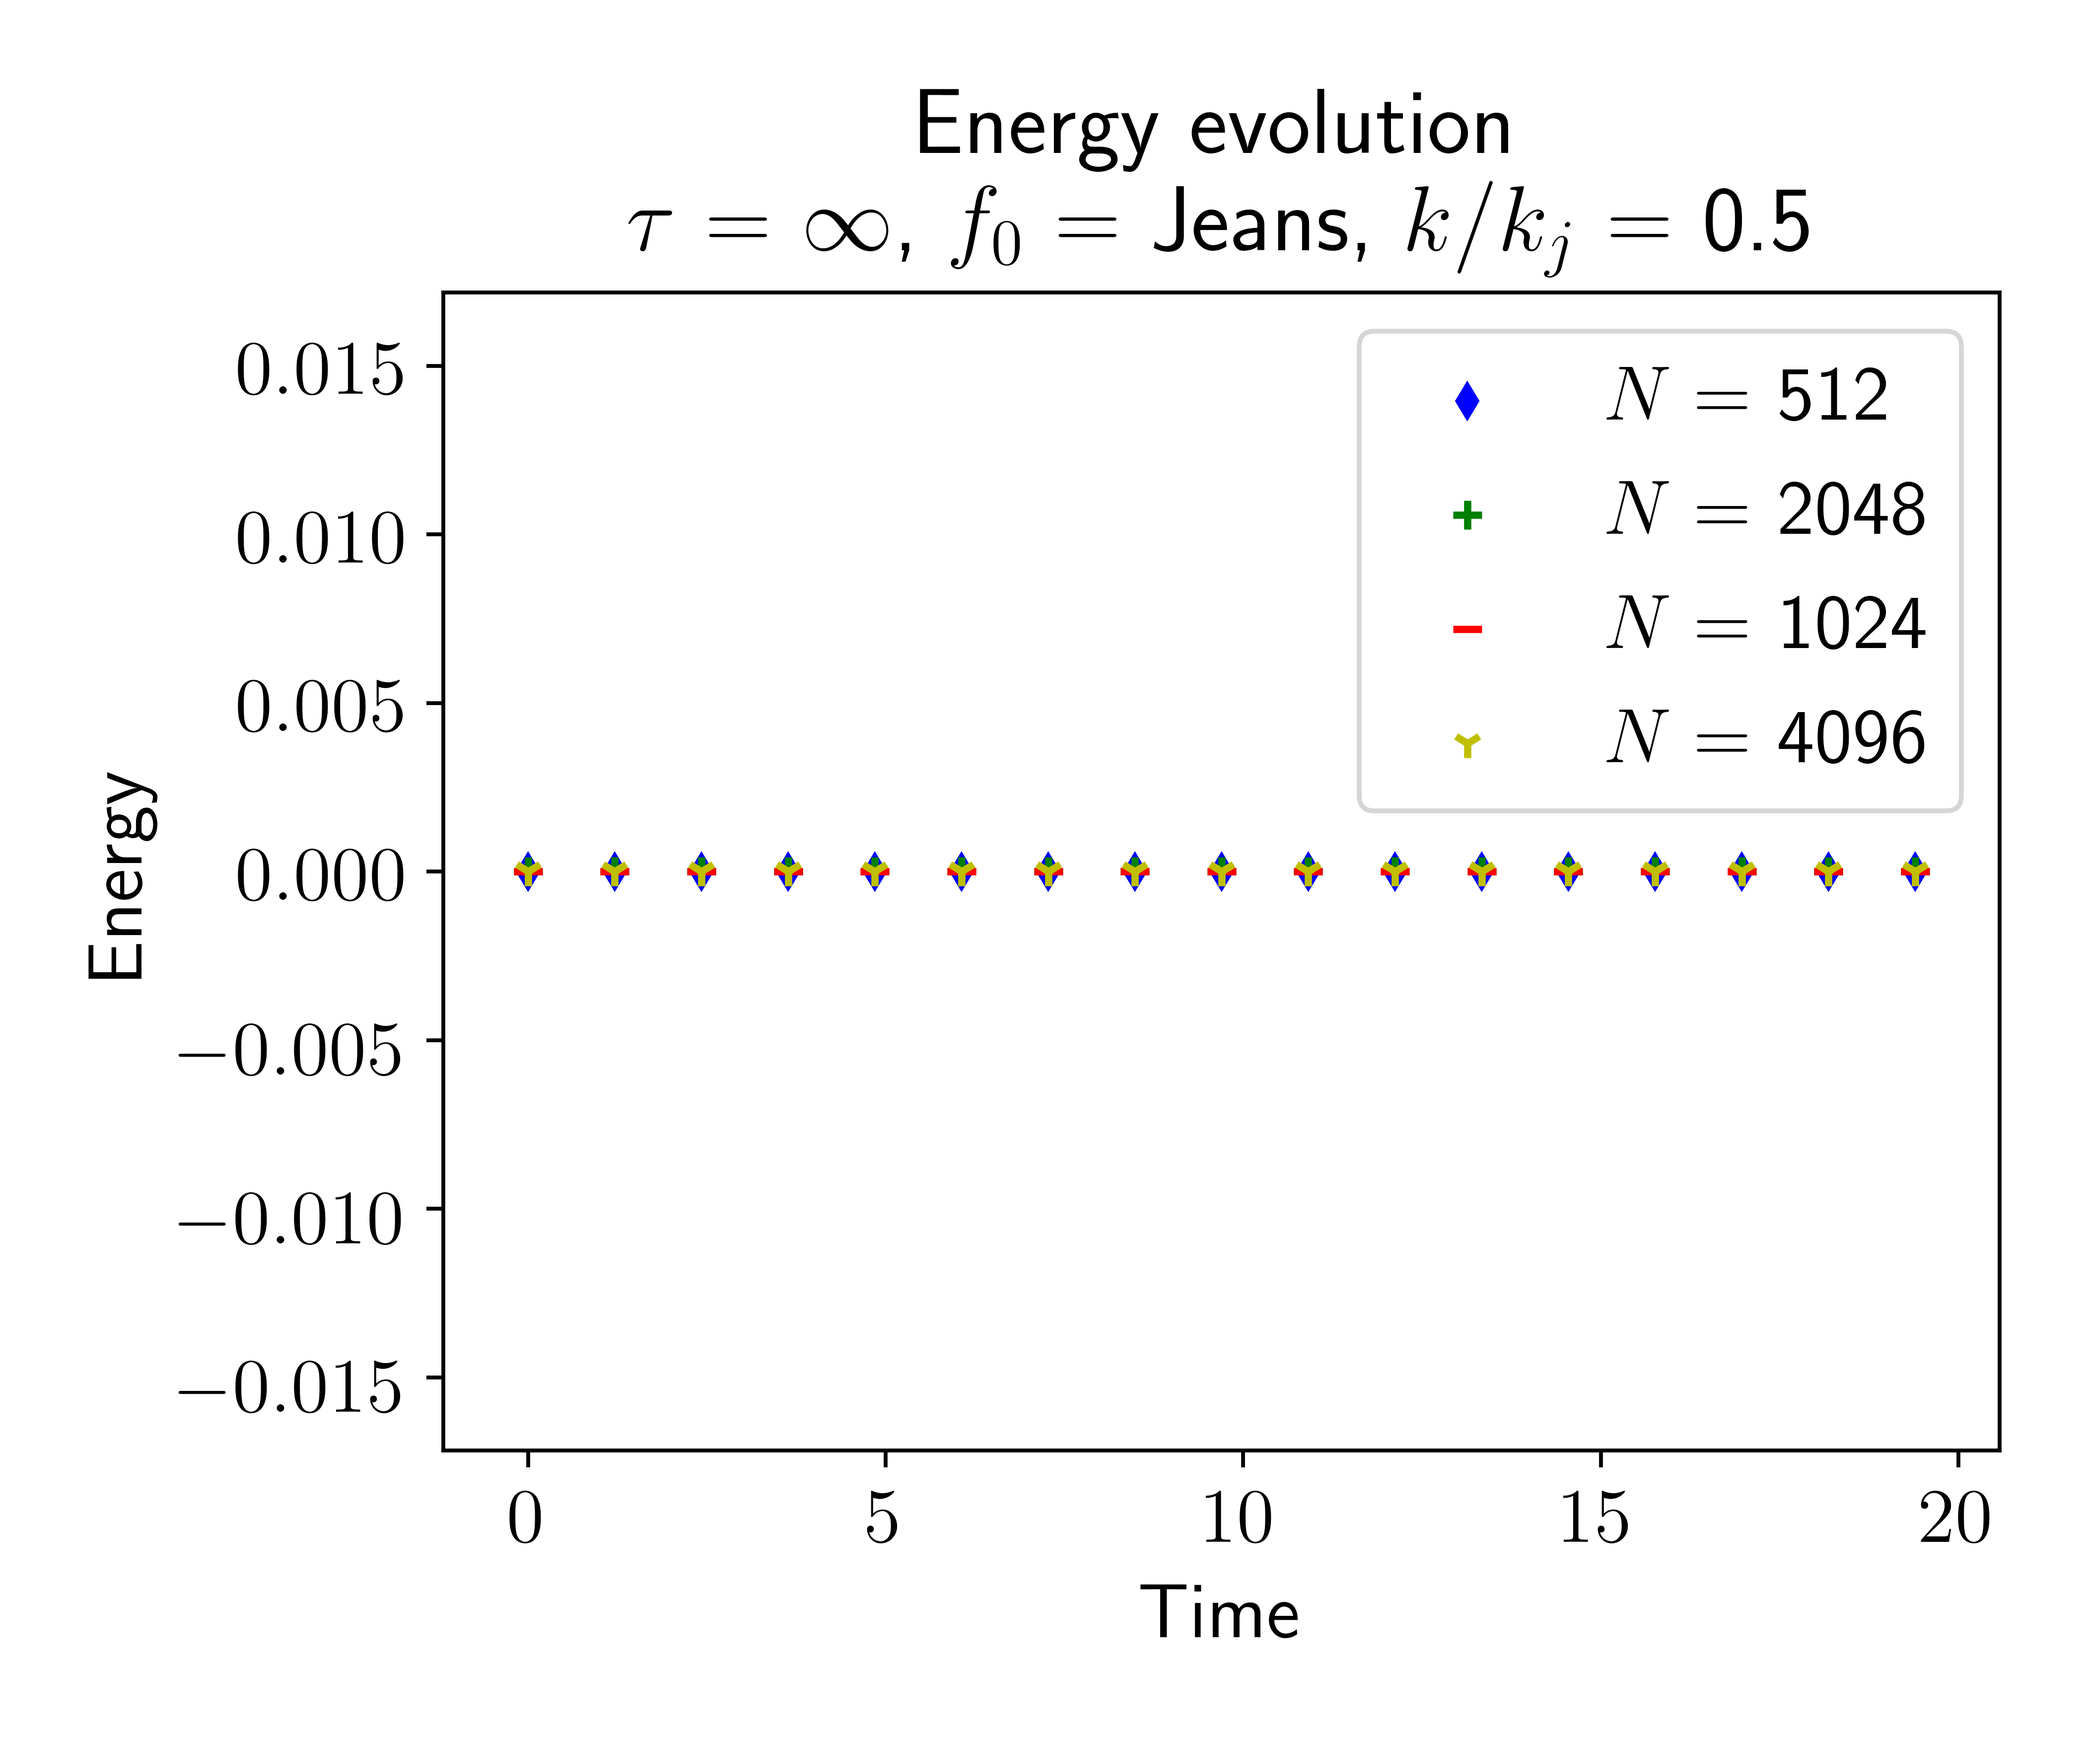
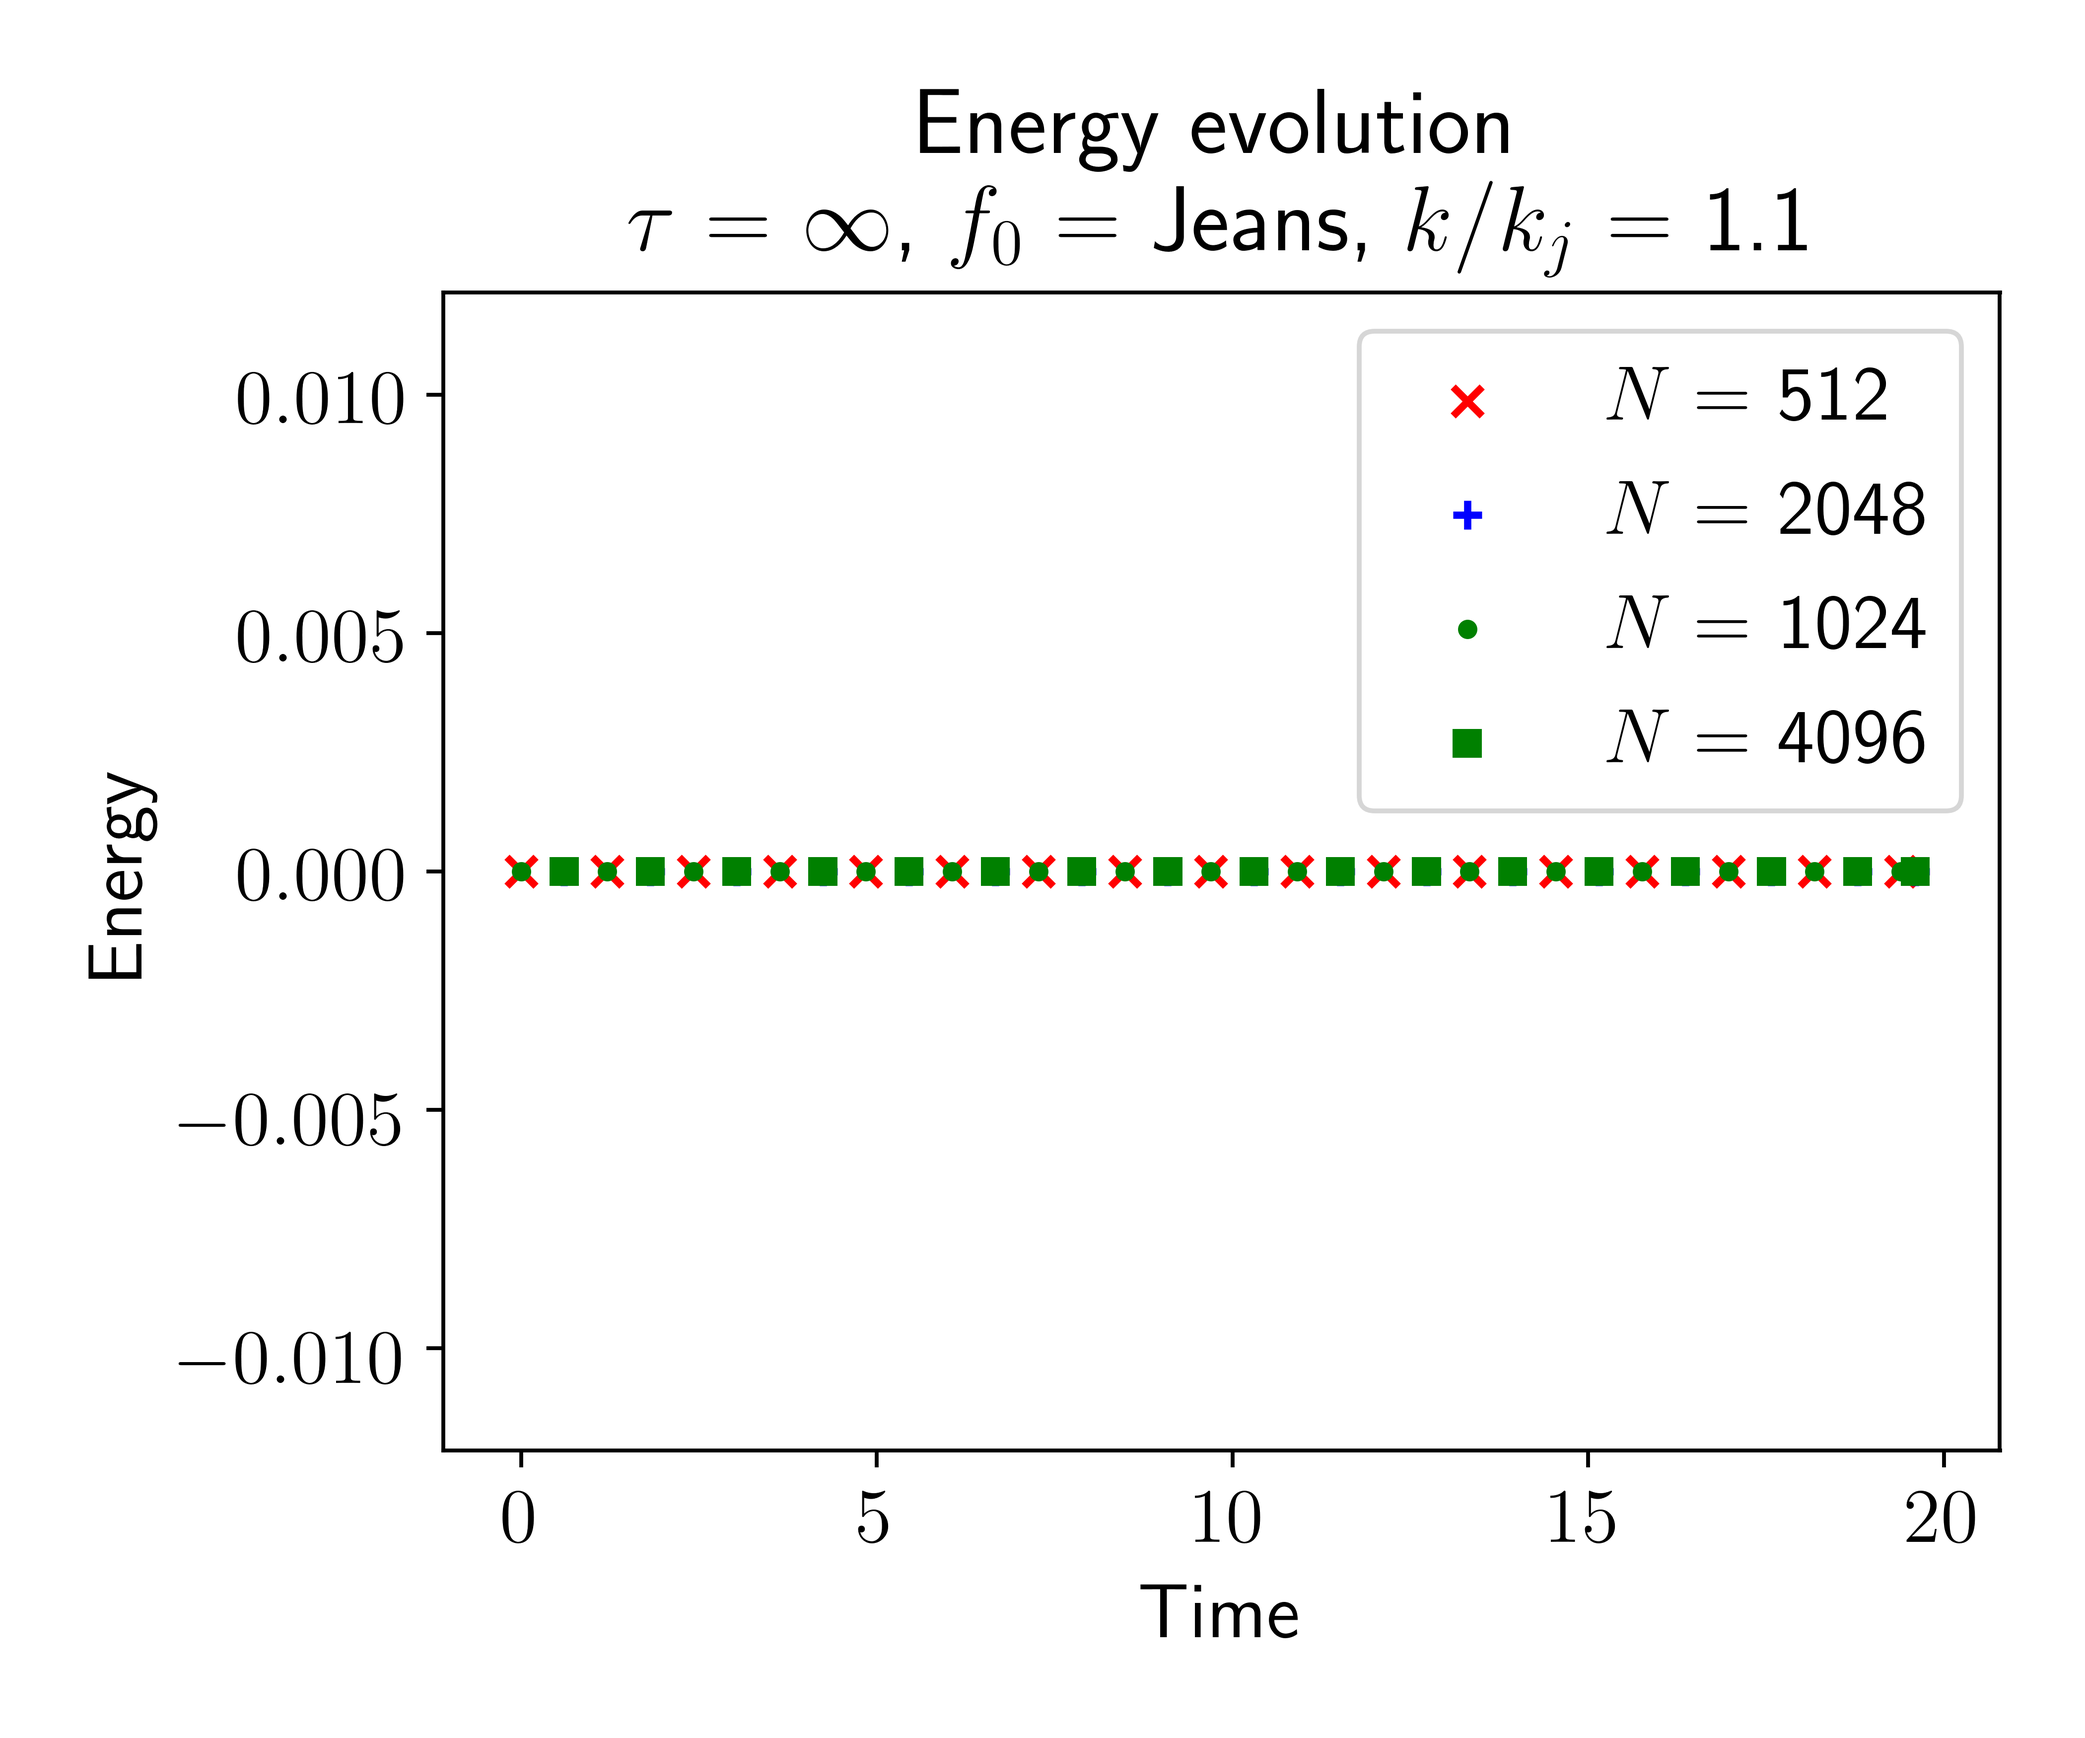
plots that work in greyscale

diff --git a/energyTests/energyPlots.py b/energyTests/energyPlots.py
@@ -174,16 +174,17 @@ for tau in ['0']:
 #        ax2 = f.add_subplot(111,sharex = ax1, frameon=False)
         #ax2.yaxis.tick_right()
         #ax2.yaxis.set_label_position("right")
-        for N1,N2,mark1,mark2 in zip(['512','1024'],['2048','4096'],['d','_'],[ '+','1']):
+        for N1,N2,mark1,mark2,color1,color2,sizes1 in zip(['512','1024'],['2048','4096'],['x','.'],[ '+','s'],['none','green'],['red','green'],[10,100]):
             condition1 = N1+sep+inicial+sep+tau0
             condition2 = N2+sep+inicial+sep+tau0
             print(condition1,condition2)
             energy1= np.loadtxt(condition1+'/energyEvolution.dat', delimiter=';')
             energy2= np.loadtxt(condition2+'/energyEvolution.dat', delimiter=';')
-            run_char = condition.split(sep='-')
-            if(tau == '0'): tau = r'$\infty$'
-            if(run_char[1][0] == 'J'):
-                run_char[1] = 'Jeans, $k/k_j$ = '+run_char[1][1]+'.'+run_char[1][2]
+            for condition in [condition1,condition2]:
+                run_char = condition.split(sep='-')
+                if(tau == '0'): tau = r'$\infty$'
+                if(run_char[1][0] == 'J'):
+                    run_char[1] = 'Jeans, $k/k_j$ = '+run_char[1][1]+'.'+run_char[1][2]
             
             U01 = energy1[0][1]
             U02 = energy2[0][1]
@@ -193,8 +194,8 @@ for tau in ['0']:
             #ax1.plot(t, energy[:,2]-U0, label = r'$N =$ '+N)
             
 
-            ax1.scatter(t[::6], np.abs((energy1[:,2][::6]-U01)/E01) - 1, label = r'$N =$ '+N1, marker = mark1,edgecolor='none')
-            ax1.scatter(np.roll(t[::6],3), np.abs((np.roll(energy2[:,2],3)[::6]-U02)/E02) - 1, label = r'$N =$ '+N2, marker = mark2,edgecolor='none')
+            ax1.scatter(t[::6], np.abs((energy1[:,2][::6]-U01)/E01) - 1, label = r'$N =$ '+N1, marker = mark1,edgecolor=color1, facecolor=color2,)
+            ax1.scatter(np.roll(t,3)[::6], np.abs((np.roll(energy2[:,2],3)[::6]-U02)/E02) - 1, label = r'$N =$ '+N2, marker = mark2,edgecolor='none')
 #            plt.plot([t[0], t[-1]], [energy[0,2], energy[0,2]], color = 'black', label = r'$E_0$')
             handles1, labels1 = ax1.get_legend_handles_labels()
 #            handles2, labels2 = ax2.get_legend_handles_labels()
@@ -209,7 +210,7 @@ for tau in ['0']:
             ax1.set_ylabel("Energy")
         plt.title("Energy evolution\n$\\tau$ = {}, $f_0$ = {}".format(tau, run_char[1]))
         plt.savefig('n'+tau0+'-Evst-'+inicial+".png", dpi=dpII)  
-        plt.close(f)
+#        plt.close(f)
 
 
 
